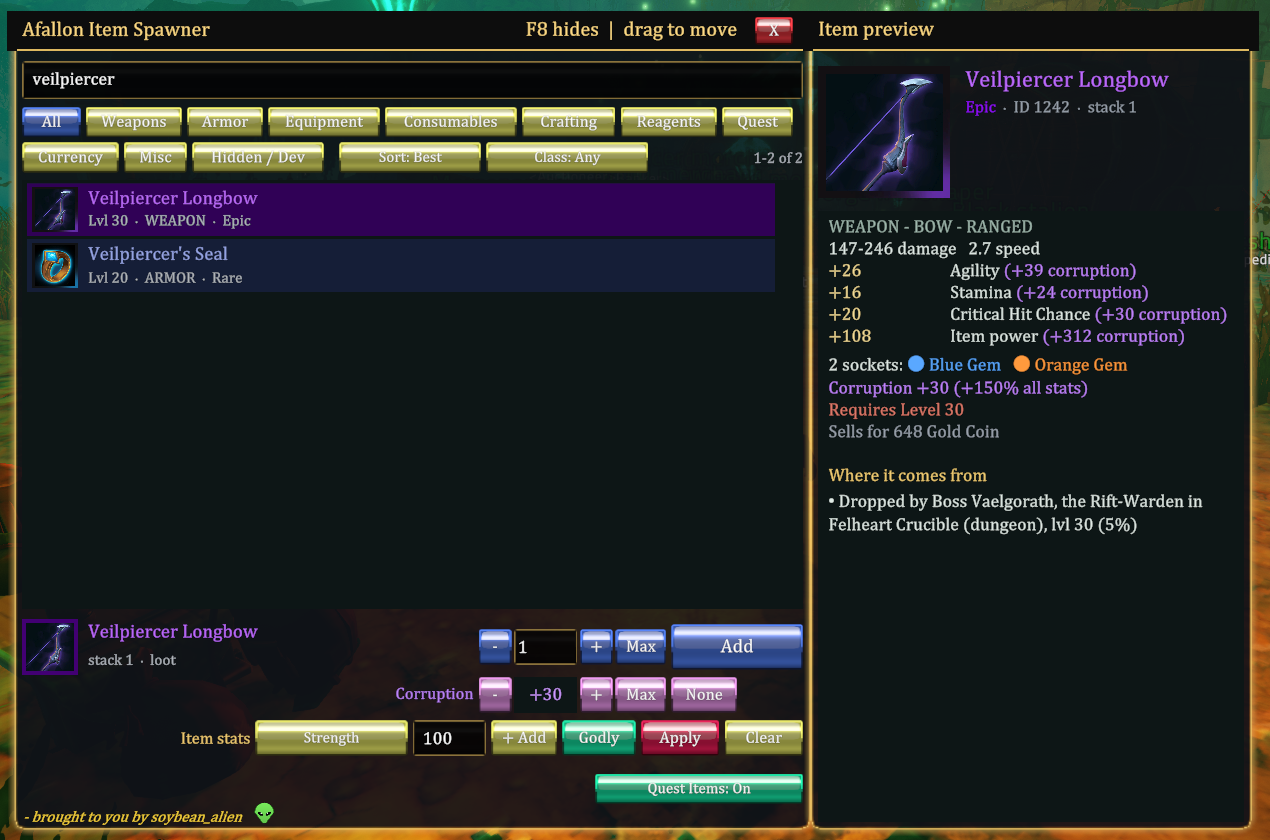
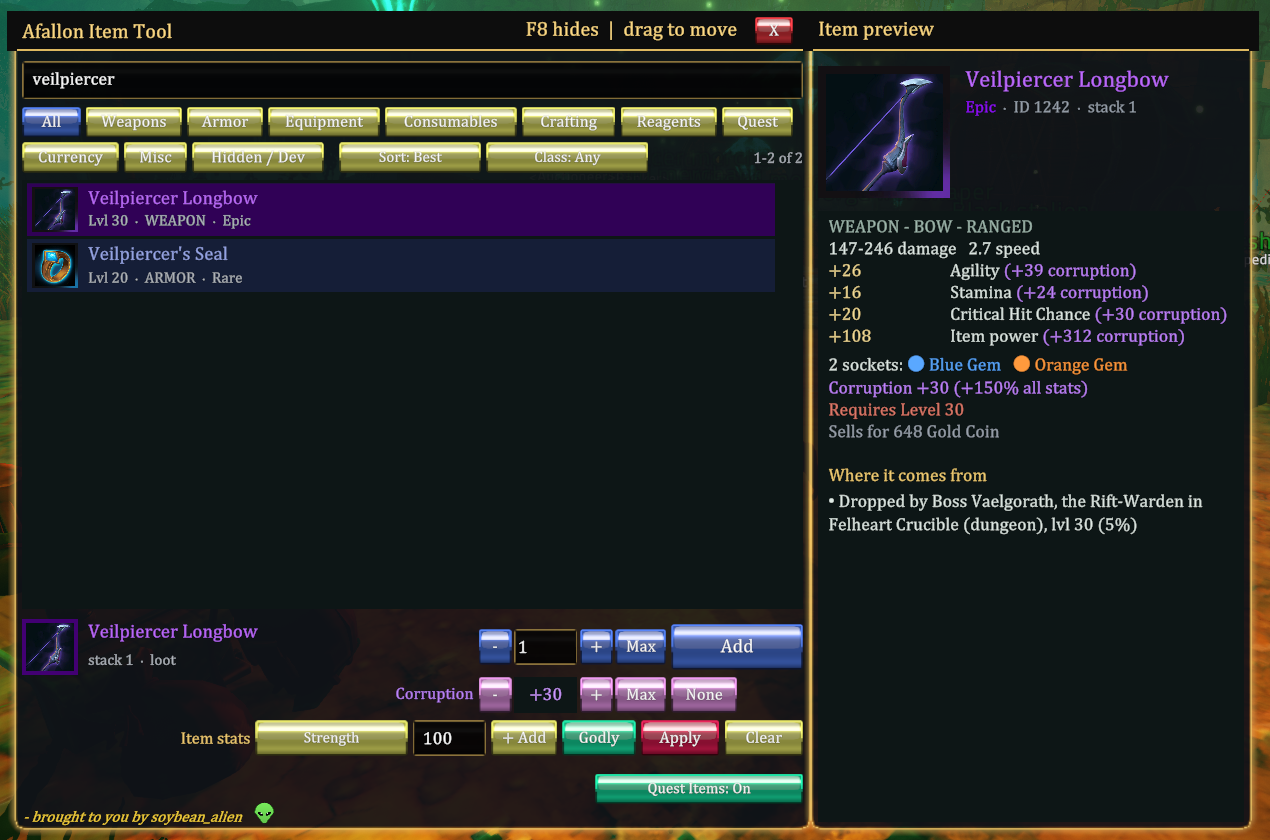
Rename to Afallon Item Tool
Visible name, plugin folder and release zip now use Afallon Item Tool.
Plugin GUID, DLL and config file names are unchanged so existing
settings and stat overrides carry over. Demo media re-recorded.

diff --git a/src/AfallonItemSpawner.BepInEx/ItemSpawnerMenu.cs b/src/AfallonItemSpawner.BepInEx/ItemSpawnerMenu.cs
@@ -347,7 +347,7 @@ internal sealed class SpawnerWindow
                 return null;
             }
 
-            font.name = "Geist-Medium (Item Spawner)";
+            font.name = "Geist-Medium (Item Tool)";
             font.hideFlags = HideFlags.DontUnloadUnusedAsset;
             CatalogProbeState.Log?.LogInfo($"Font: bundled Geist loaded from {path}.");
             return font;
@@ -418,7 +418,7 @@ internal sealed class SpawnerWindow
     {
         _header = Place(NewRect(_panel, "Header"), 0f, 0f, Width, 32f);
         SkinHeader(AddImage(_header.gameObject, HeaderColor, true));
-        var title = AddText(_header, "Title", "Afallon Item Spawner", 16f, _skinned ? new Color(1f, 0.86f, 0.52f, 1f) : Color.white);
+        var title = AddText(_header, "Title", "Afallon Item Tool", 16f, _skinned ? new Color(1f, 0.86f, 0.52f, 1f) : Color.white);
         Place(title.rectTransform, Margin, 0f, Width - 160f, 32f);
         // Title uses the same regular style as the item list (user request).
         var hint = AddText(_header, "Hint", $"{Plugin.ToggleKey?.Value ?? KeyCode.F8} hides  |  drag to move", 16f, _skinned ? new Color(1f, 0.86f, 0.52f, 1f) : MutedText);

diff --git a/src/AfallonItemSpawner.BepInEx/ItemOverrides.cs b/src/AfallonItemSpawner.BepInEx/ItemOverrides.cs
@@ -244,7 +244,7 @@ internal static class ItemOverrides
         {
             var lines = new List<string>
             {
-                "# Afallon Item Spawner - item stat overrides (personal use).",
+                "# Afallon Item Tool - item stat overrides (personal use).",
                 "# Format: itemId|statId=value;statId=value[|L=1][|M=n]   L=1 = usable at level 1, M=n = consumable effect x n.",
                 "# Delete a line (or use Clear in the menu) to restore an item.",
             };

diff --git a/src/AfallonItemSpawner.BepInEx/Plugin.cs b/src/AfallonItemSpawner.BepInEx/Plugin.cs
@@ -13,7 +13,7 @@ namespace AfallonItemSpawner.BepInEx;
 public sealed class Plugin : BasePlugin
 {
     public const string PluginGuid = "soybean_alien.afallon.itemspawner";
-    public const string PluginName = "Afallon Item Spawner";
+    public const string PluginName = "Afallon Item Tool";
     public const string PluginVersion = "0.3.0-alpha";
 
     internal static ConfigEntry<bool> AllowQuestItems { get; private set; }

diff --git a/tools/verify_release_contents.py b/tools/verify_release_contents.py
@@ -1,4 +1,4 @@
-"""Fail-closed scanner for an Afallon Item Spawner release directory or ZIP."""
+"""Fail-closed scanner for an Afallon Item Tool release directory or ZIP."""
 
 from __future__ import annotations
 

diff --git a/README.md b/README.md
@@ -5,7 +5,7 @@ gear, builds and items *before* you commit to them on a real playthrough. Press 
 in-game to open a window listing every item in the game, then click **Add** to put one
 in your bag.
 
-![Afallon Item Spawner in action](docs/media/demo.gif)
+![Afallon Item Tool in action](docs/media/demo.gif)
 
 - **Every item:** all 1,234, including quest items and hidden/developer items, with the game's own icons.
 - **Find anything:** search by name, ID, type, rarity, class or source; category tabs; class filter.
@@ -39,7 +39,7 @@ Windows only. The mod runs inside the game through the BepInEx mod loader, which
   **[BepInEx-Unity.IL2CPP-win-x64-6.0.0-be.788+5b766a3.zip](https://builds.bepinex.dev/projects/bepinex_be/788/BepInEx-Unity.IL2CPP-win-x64-6.0.0-be.788%2B5b766a3.zip)**
   (about 34 MB; [all builds](https://builds.bepinex.dev/projects/bepinex_be)).
   **BepInEx 5 and the Mono builds will not work.** Other BepInEx 6 builds are untested.
-- **`AfallonItemSpawner-0.3.0-alpha.zip`** from [Releases](../../releases).
+- **`AfallonItemTool-0.3.0-alpha.zip`** from [Releases](../../releases).
 
 ### Steps
 
@@ -52,9 +52,9 @@ Windows only. The mod runs inside the game through the BepInEx mod loader, which
    `BepInEx\`, `dotnet\` and `winhttp.dll` sit next to `Afallon.exe`.
 4. **Start Afallon once** and wait for the main menu. The first start takes 1–5 minutes
    while BepInEx prepares itself, and it may look frozen. Then quit.
-5. **Install the mod.** Unzip `AfallonItemSpawner-0.3.0-alpha.zip` into the game folder
+5. **Install the mod.** Unzip `AfallonItemTool-0.3.0-alpha.zip` into the game folder
    (merge the `BepInEx` folder). You should now have
-   `BepInEx\plugins\AfallonItemSpawner\AfallonItemSpawner.dll`.
+   `BepInEx\plugins\AfallonItemTool\AfallonItemSpawner.dll`.
 6. **Play.** Start Afallon and load a character. Press **F8**, pick an item, set the
    quantity, then press **Add**.
 
@@ -64,7 +64,7 @@ The full guide, including usage, every setting, and the bag-size warning, is
 ### Uninstall
 
 If you enlarged the bag, first move everything into the first 105 slots. Then close the
-game and delete `BepInEx\plugins\AfallonItemSpawner\` (and optionally
+game and delete `BepInEx\plugins\AfallonItemTool\` (and optionally
 `BepInEx\config\soybean_alien.afallon.itemspawner*`). Spawned items stay in your
 inventory; stat overrides disappear with the mod.
 
@@ -106,13 +106,13 @@ dotnet run --project tests/AfallonItemSpawner.Core.Tests
    ```
    powershell -ExecutionPolicy Bypass -File tools/build_package.ps1 -GameRoot "C:\path\to\Afallon"
    ```
-2. It writes `dist/AfallonItemSpawner-<version>.zip` and refuses to finish if the zip
+2. It writes `dist/AfallonItemTool-<version>.zip` and refuses to finish if the zip
    contains any game file, interop assembly or source file
    (`tools/verify_release_contents.py`). Archive layout:
    ```
-   BepInEx/plugins/AfallonItemSpawner/AfallonItemSpawner.dll
-   BepInEx/plugins/AfallonItemSpawner/AfallonItemSpawner.Core.dll
-   BepInEx/plugins/AfallonItemSpawner/fonts/Geist-*.ttf, Geist-OFL-LICENSE.txt
+   BepInEx/plugins/AfallonItemTool/AfallonItemSpawner.dll
+   BepInEx/plugins/AfallonItemTool/AfallonItemSpawner.Core.dll
+   BepInEx/plugins/AfallonItemTool/fonts/Geist-*.ttf, Geist-OFL-LICENSE.txt
    README.md, INSTALL.md, LICENSE, DISCLAIMER.md, THIRD-PARTY-NOTICES.md, SHA256SUMS.txt
    ```
 

diff --git a/dist-template/INSTALL.md b/dist-template/INSTALL.md
@@ -1,4 +1,4 @@
-# Afallon Item Spawner — v0.3.0-alpha
+# Afallon Item Tool — v0.3.0-alpha
 
 **ALPHA · for testing only · by soybean_alien · vibe-coded with AI (Anthropic Claude + OpenAI Codex)**
 
@@ -20,7 +20,7 @@ detailed preview. One click puts an item in your bag.
 |---|---|---|
 | **REQUIRED** | **Afallon** on Steam (Windows) | Tested on Early Access **0.16.3**. Other versions may not work. |
 | **REQUIRED** | **[BepInEx 6.0.0-be.788 — Unity IL2CPP, Windows x64](https://builds.bepinex.dev/projects/bepinex_be/788/BepInEx-Unity.IL2CPP-win-x64-6.0.0-be.788%2B5b766a3.zip)** | The mod loader. The mod **will not run** without it. |
-| | This mod: `AfallonItemSpawner-0.3.0-alpha.zip` | |
+| | This mod: `AfallonItemTool-0.3.0-alpha.zip` | |
 
 **About BepInEx (read this):**
 - You need exactly **BepInEx 6, build #788, "Unity.IL2CPP-win-x64"**. The link above
@@ -63,14 +63,14 @@ To restore later, close the game and copy the files back.
    - A black console window opens beside the game. That's normal.
 5. Quit the game.
 
-## Step 4: Install the Item Spawner
+## Step 4: Install the Item Tool
 
-1. Extract `AfallonItemSpawner-0.3.0-alpha.zip` somewhere (your Desktop is fine).
+1. Extract `AfallonItemTool-0.3.0-alpha.zip` somewhere (your Desktop is fine).
 2. Inside it there's a folder named **`BepInEx`**. Drag that `BepInEx` folder **into the
    game folder**. If Windows asks, choose **Replace / Merge**.
 3. Check it: this file must exist:
    ```
-   <game folder>\BepInEx\plugins\AfallonItemSpawner\AfallonItemSpawner.dll
+   <game folder>\BepInEx\plugins\AfallonItemTool\AfallonItemSpawner.dll
    ```
    Keep everything in that folder together (both DLLs and the `fonts` folder).
 
@@ -134,7 +134,7 @@ slots**. Before you lower it or uninstall, move everything into the first 105 sl
 
 1. If you made the bag bigger, empty the extra slots first (see the warning above).
 2. Close Afallon.
-3. Delete `<game folder>\BepInEx\plugins\AfallonItemSpawner\`.
+3. Delete `<game folder>\BepInEx\plugins\AfallonItemTool\`.
 4. Optional: delete `<game folder>\BepInEx\config\soybean_alien.afallon.itemspawner*`.
 5. Optional, to remove BepInEx completely: delete `BepInEx\`, `dotnet\`, `winhttp.dll`,
    `doorstop_config.ini`, `.doorstop_version` and `changelog.txt` from the game folder.

diff --git a/DISCLAIMER.md b/DISCLAIMER.md
@@ -1,6 +1,6 @@
 # Disclaimer
 
-**Afallon Item Spawner is an unofficial fan-made mod in ALPHA. It is for testing only.**
+**Afallon Item Tool is an unofficial fan-made mod in ALPHA. It is for testing only.**
 
 1. **No affiliation.** Afallon is developed and published by **Stargazing Interactive**
    (Steam App 2597810, Early Access). This project is an independent fan creation. It

diff --git a/THIRD-PARTY-NOTICES.md b/THIRD-PARTY-NOTICES.md
@@ -3,7 +3,7 @@
 ## Bundled in the release package
 
 ### Geist font (Vercel)
-- Files: `BepInEx/plugins/AfallonItemSpawner/fonts/Geist-*.ttf`
+- Files: `BepInEx/plugins/AfallonItemTool/fonts/Geist-*.ttf`
 - License: **SIL Open Font License 1.1**. The full text ships next to the fonts as
   `Geist-OFL-LICENSE.txt`.
 - Source: <https://github.com/vercel/geist-font>
